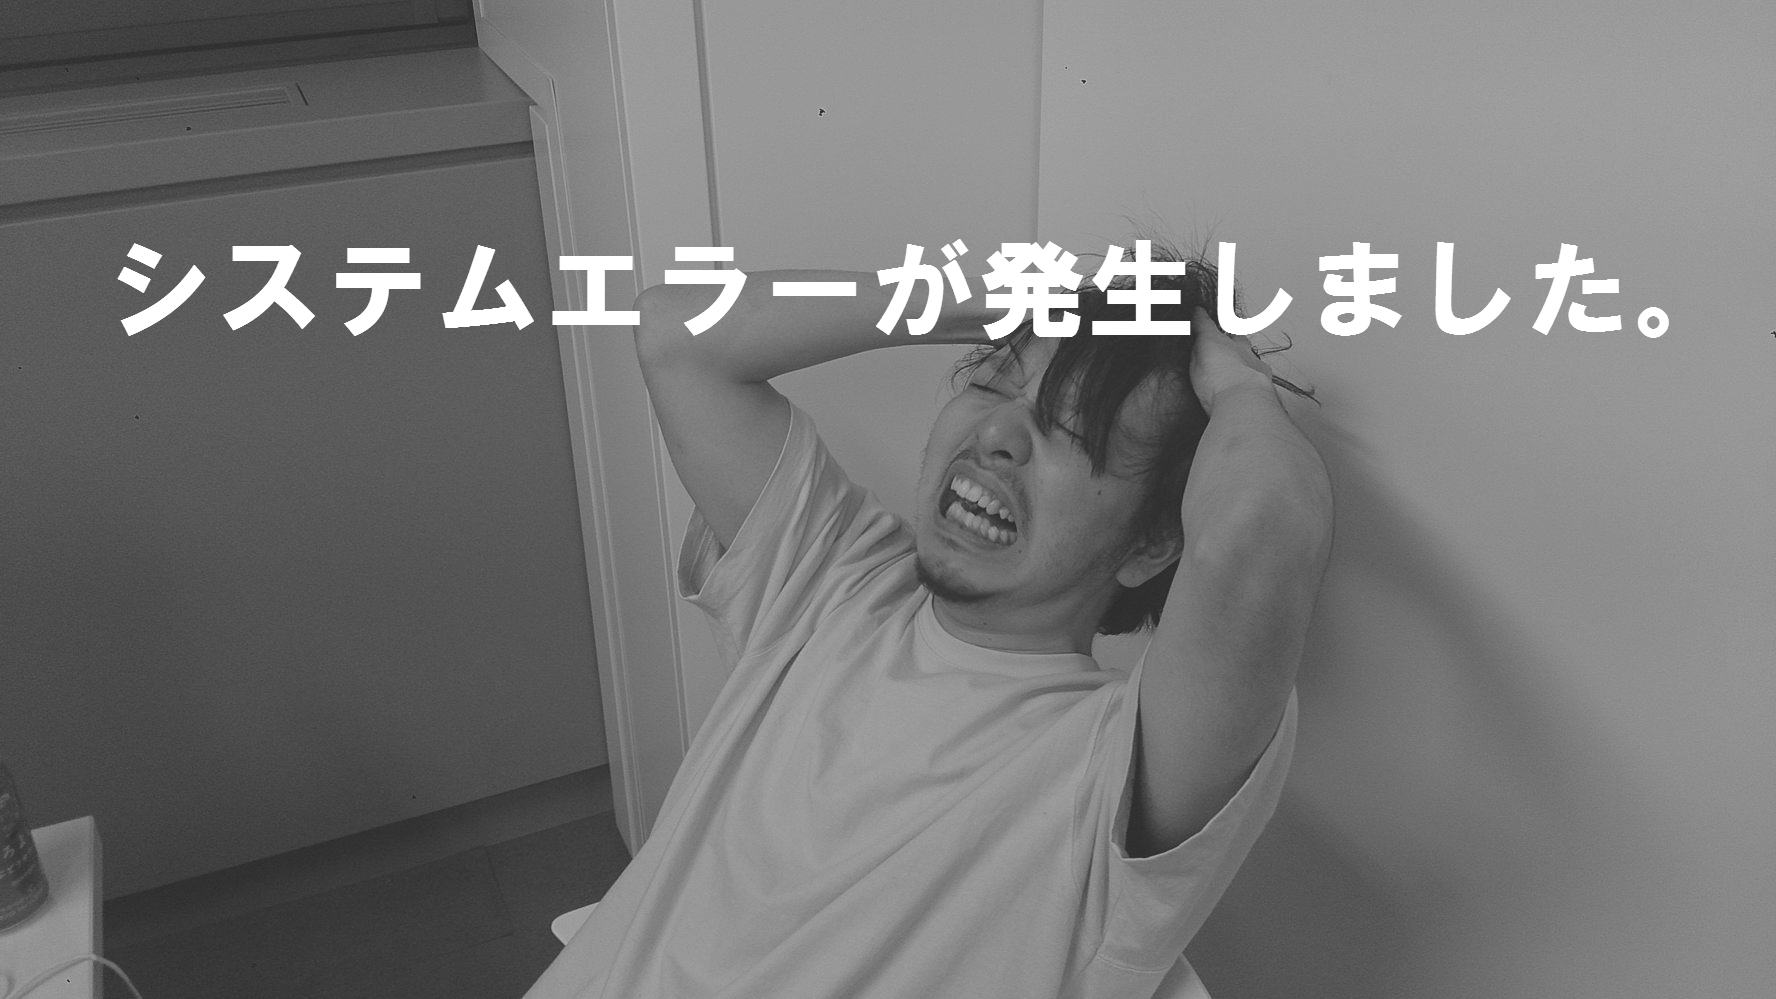
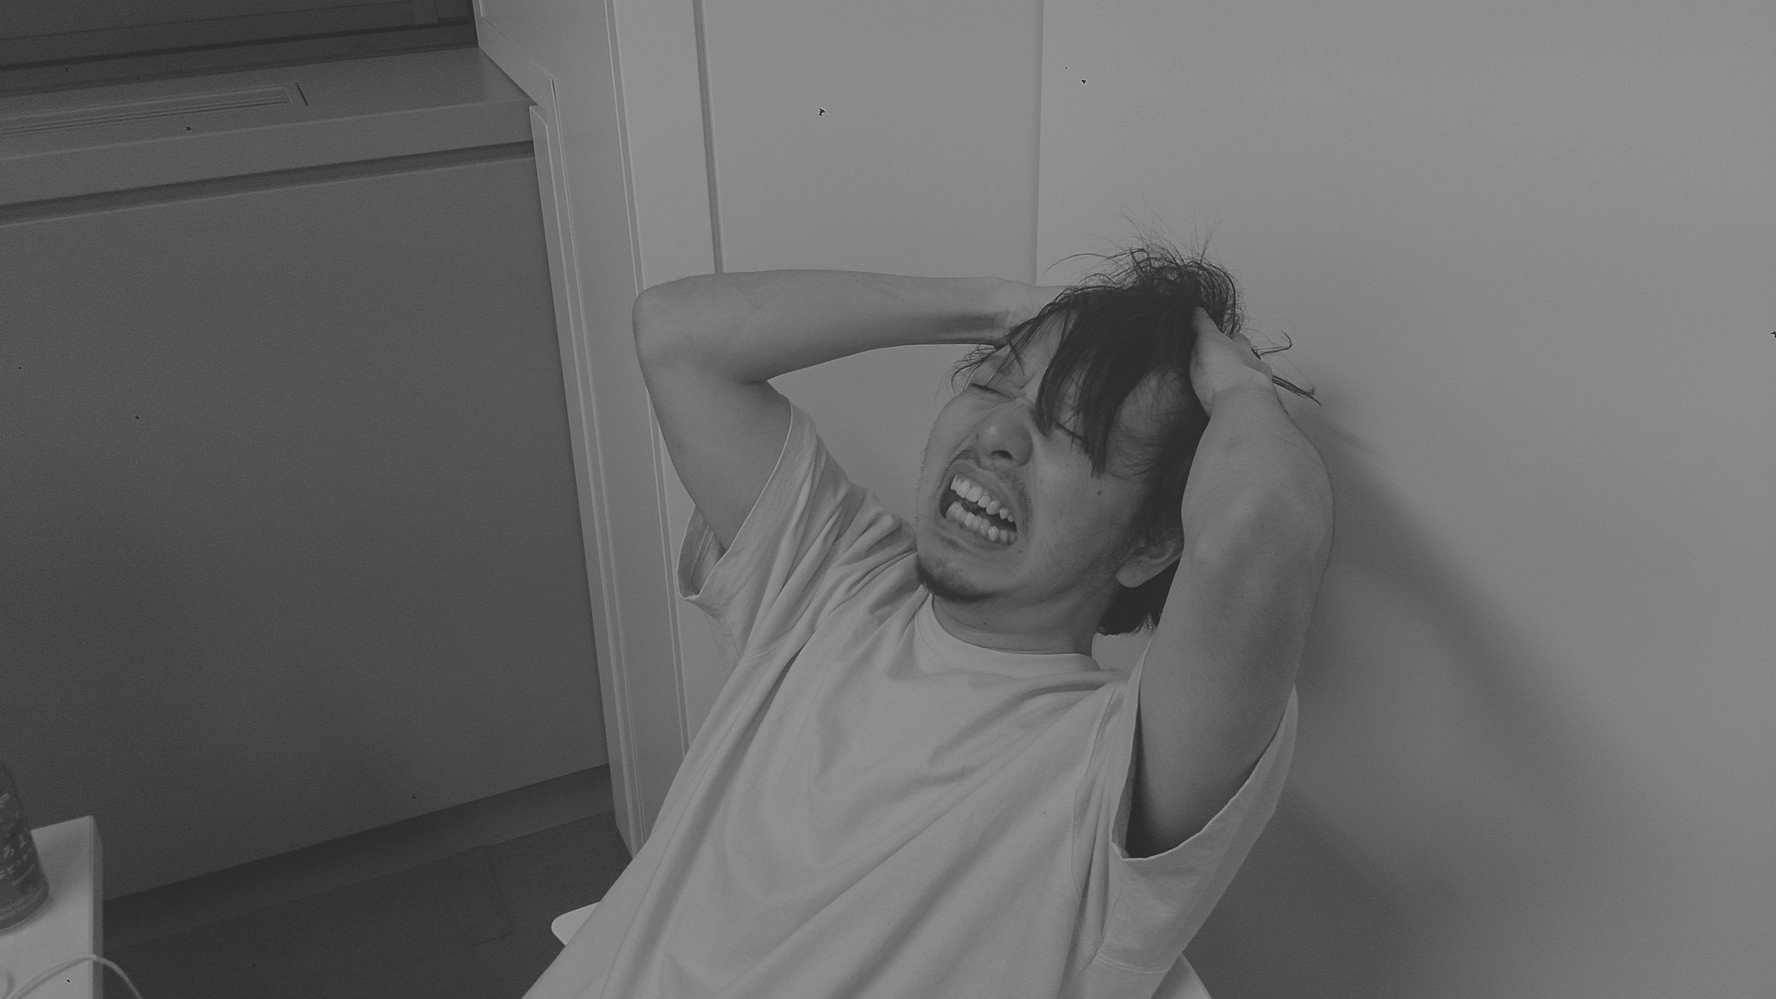
[mod][add]エラーページを動的に扱えるように修正、追加（再）

Changed region(s): [[0.0619, 0.2172, 0.96, 0.3413]]

diff --git a/public/500.html b/public/500.html
@@ -2,7 +2,7 @@
 <html>
 <head>
     <title>We're sorry, but something went wrong (500)</title>
-    <meta name="viewport" content="width=device-width,initial-scale=1">
+    <!--<meta name="viewport" content="width=device-width,initial-scale=1">-->
     <style>
         html {
             height: 100%;
@@ -10,69 +10,55 @@
         body {
             width: 100%;
             height: 100%;
-            background-color: #EFEFEF;
             color: #2E2F30;
             text-align: center;
-            font-family: arial, sans-serif;
             margin: 0;
+            background: url(assets/error500.jpg);
+            background-repeat: no-repeat;
+            background-position: center center;
+            background-size: cover;
         }
 
         #main {
             height: 100%;
-            background-image: url(<%= asset_path error500.jpg %>);
             background-size: cover;
         }
 
-        div.dialog {
-            width: 95%;
-            max-width: 33em;
-            margin: 4em auto 0;
-        }
-
-        div.dialog > div {
-            border: 1px solid #CCC;
-            border-right-color: #999;
-            border-left-color: #999;
-            border-bottom-color: #BBB;
-            border-top: #B00100 solid 4px;
-            border-top-left-radius: 9px;
-            border-top-right-radius: 9px;
-            background-color: white;
-            padding: 7px 12% 0;
-            box-shadow: 0 3px 8px rgba(50, 50, 50, 0.17);
-        }
-
         h1 {
-            font-size: 100%;
-            color: #730E15;
-            line-height: 1.5em;
+            font-size: 500%;
+            color: #fff;
+            margin: 25% 0;
         }
 
-        div.dialog > p {
-            margin: 0 0 1em;
-            padding: 1em;
-            background-color: #F7F7F7;
-            border: 1px solid #CCC;
-            border-right-color: #999;
-            border-left-color: #999;
-            border-bottom-color: #999;
-            border-bottom-left-radius: 4px;
-            border-bottom-right-radius: 4px;
-            border-top-color: #DADADA;
-            color: #666;
-            box-shadow: 0 3px 8px rgba(50, 50, 50, 0.17);
+        p {
+            font-size: 100%;
+            color: #FFFFFF;
         }
+
+        /*div.dialog > p {*/
+            /*margin: 0 0 1em;*/
+            /*padding: 1em;*/
+            /*background-color: #FFFFFF;*/
+            /*border: 1px solid #CCC;*/
+            /*border-right-color: #999;*/
+            /*border-left-color: #999;*/
+            /*border-bottom-color: #999;*/
+            /*border-bottom-left-radius: 4px;*/
+            /*border-bottom-right-radius: 4px;*/
+            /*border-top-color: #DADADA;*/
+            /*color: #666;*/
+            /*box-shadow: 0 3px 8px rgba(50, 50, 50, 0.17);*/
+        /*}*/
     </style>
 </head>
 
 <body>
 <div id="main">
     <!-- This file lives in public/500.html -->
-    <div class="dialog">
-        <div>
-            <h1>We're sorry, but something went wrong.</h1>
-        </div>
-        <p>If you are the application owner check the logs for more information.</p>
+    <div class="error">
+        <h1>システムエラーが発生しました</h1>
+        <p>佐藤までご連絡ください。</p>
+        <a href="/"
     </div>
 </div>
 </body>

diff --git a/app/controllers/application_controller.rb b/app/controllers/application_controller.rb
@@ -40,8 +40,8 @@ class ApplicationController < ActionController::Base
   end
 
   # 404エラー
-  rescue_from AbstractController::ActionNotFound, with: :error_404 unless Rails.env.development?
-  rescue_from ActionController::RoutingError, with: :error_404 unless Rails.env.development?
+  # rescue_from AbstractController::ActionNotFound, with: :error_404 unless Rails.env.development?
+  # rescue_from ActionController::RoutingError, with: :error_404 unless Rails.env.development?
 
   # 500エラー
   rescue_from Exception, with: :error_505 unless Rails.env.development?

diff --git a/config/environments/production.rb b/config/environments/production.rb
@@ -81,6 +81,6 @@ Rails.application.configure do
   # Do not dump schema after migrations.
   config.active_record.dump_schema_after_migration = false
 
-  # エラーページを動的に編集（参考：http://goo.gl/KSHWQt）
+  # エラーページを動的に編集できるようにする
   config.exceptions_app = ->(env) { ErrorsController.action(:show).call(env) }
 end
